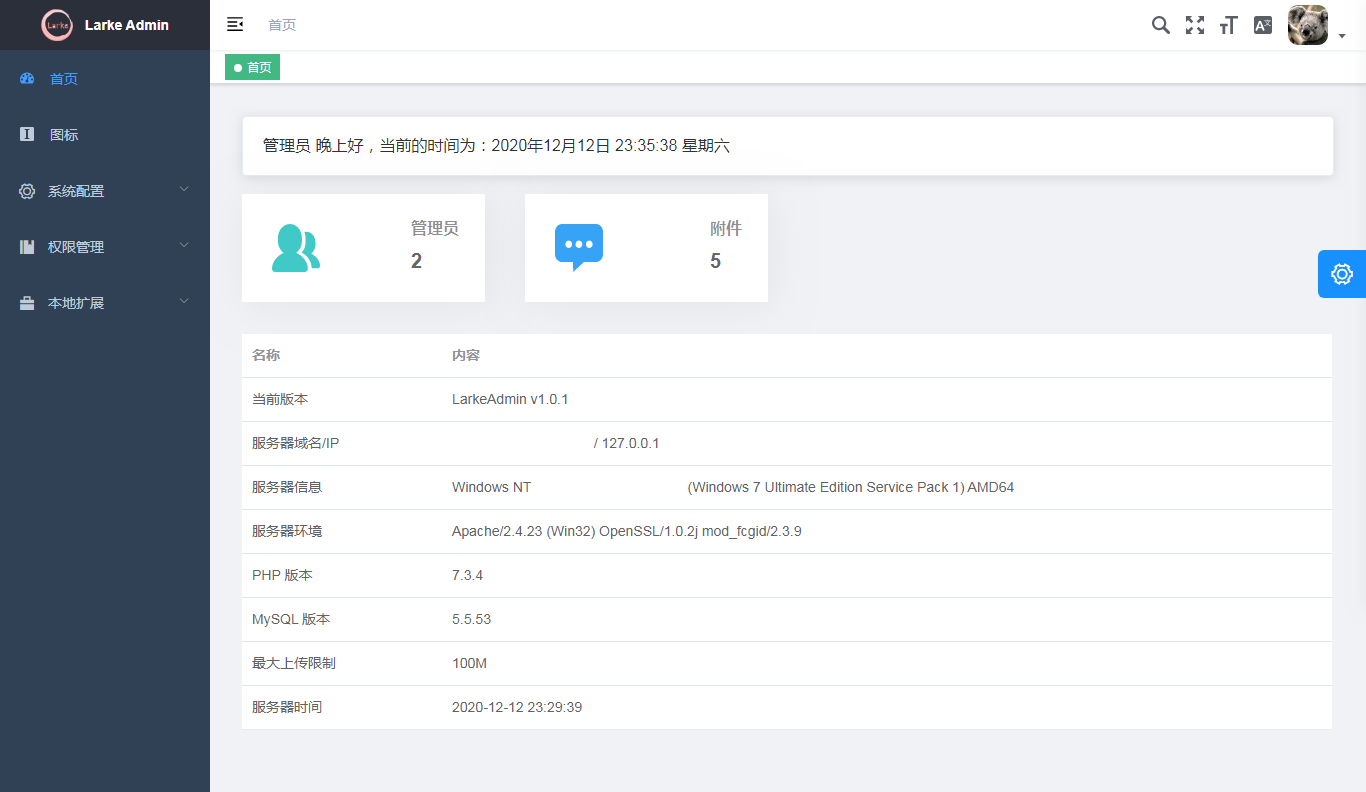
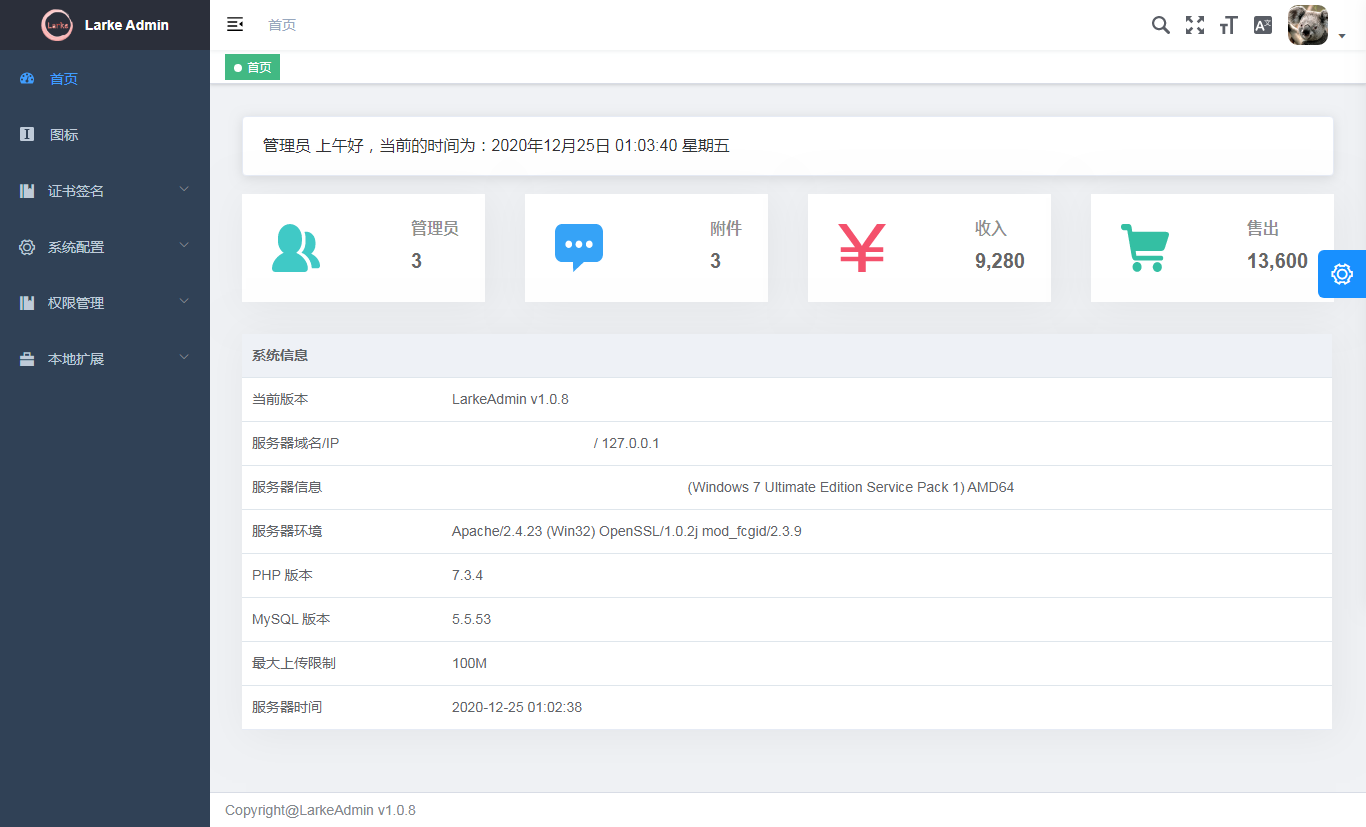
优化代码

diff --git a/src/resource/assets/src/extension/sign-cert/router.js b/src/resource/assets/src/extension/sign-cert/router.js
@@ -42,9 +42,9 @@ const route = {
     {
       path: '/sign-cert/rsa',
       component: () => import('./views/rsa/index'),
-      name: 'SignCertHmacCheck',
+      name: 'SignCertRsa',
       meta: {
-        title: 'SignCertHmacCheck',
+        title: 'SignCertRsa',
         icon: 'peoples',
         roles: ['larke-admin.sign-cert.rsa']
       }
@@ -64,9 +64,9 @@ const route = {
     {
       path: '/sign-cert/ecdsa',
       component: () => import('./views/ecdsa/index'),
-      name: 'SignCertEcdsaCheck',
+      name: 'SignCertEcdsa',
       meta: {
-        title: 'SignCertEcdsaCheck',
+        title: 'SignCertEcdsa',
         icon: 'peoples',
         roles: ['larke-admin.sign-cert.ecdsa']
       }
@@ -74,9 +74,9 @@ const route = {
     {
       path: '/sign-cert/ecdsa-check',
       component: () => import('./views/ecdsa/check'),
-      name: 'SignCertEcdsa',
+      name: 'SignCertEcdsaCheck',
       meta: {
-        title: 'SignCertEcdsa',
+        title: 'SignCertEcdsaCheck',
         roles: ['larke-admin.sign-cert.ecdsa-check'],
         activeMenu: '/sign-cert/ecdsa'
       },
@@ -96,9 +96,9 @@ const route = {
     {
       path: '/sign-cert/eddsa-check',
       component: () => import('./views/eddsa/check'),
-      name: 'AuthGroupTree',
+      name: 'SignCertEddsaCheck',
       meta: {
-        title: 'AuthGroupTree',
+        title: 'SignCertEddsaCheck',
         roles: ['larke-admin.sign-cert.eddsa-check'],
         activeMenu: '/sign-cert/eddsa'
       },

diff --git a/src/resource/assets/src/store/modules/permission.js b/src/resource/assets/src/store/modules/permission.js
@@ -50,6 +50,10 @@ function routesSort(route) {
     } else {
       route[key]['sort'] = 100
     }
+
+    if (item.children) {
+      routesSort(item.children)
+    }    
   })
 
   arraySort(route, 'sort')

diff --git a/src/resource/assets/src/routes.js b/src/resource/assets/src/routes.js
@@ -1,8 +1,8 @@
 /** 左侧菜单排序 */
 
 export default {
-  /** your extensions */
 
+  /** 这些为系统菜单 */
   System: 100000,
   Permission: 100010,
   LocalExtension: 100050,
